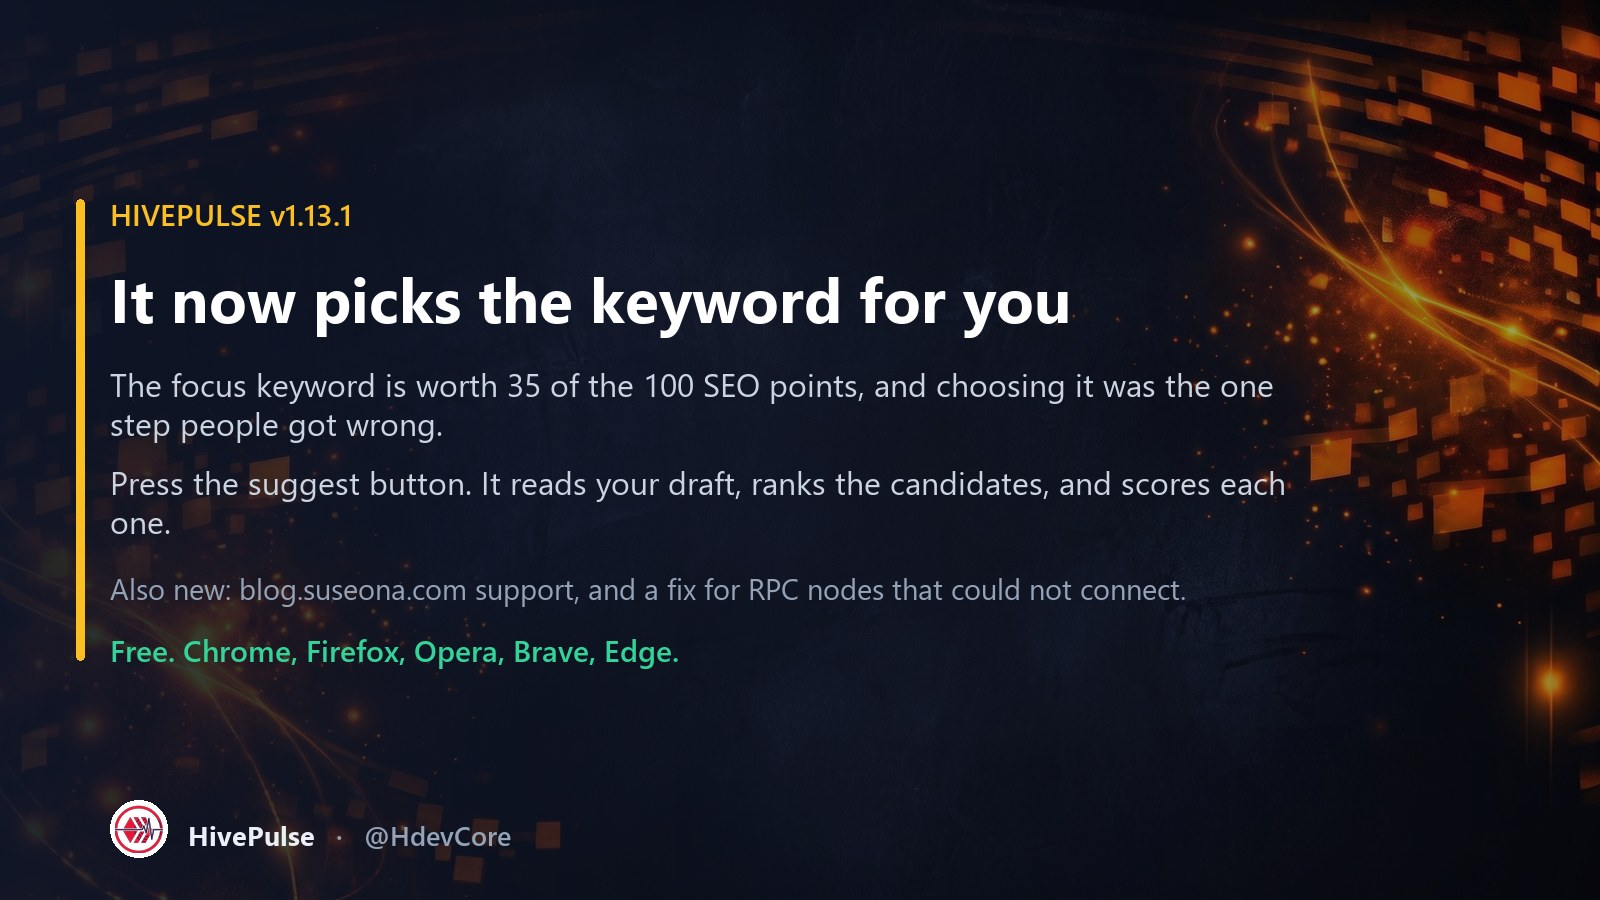
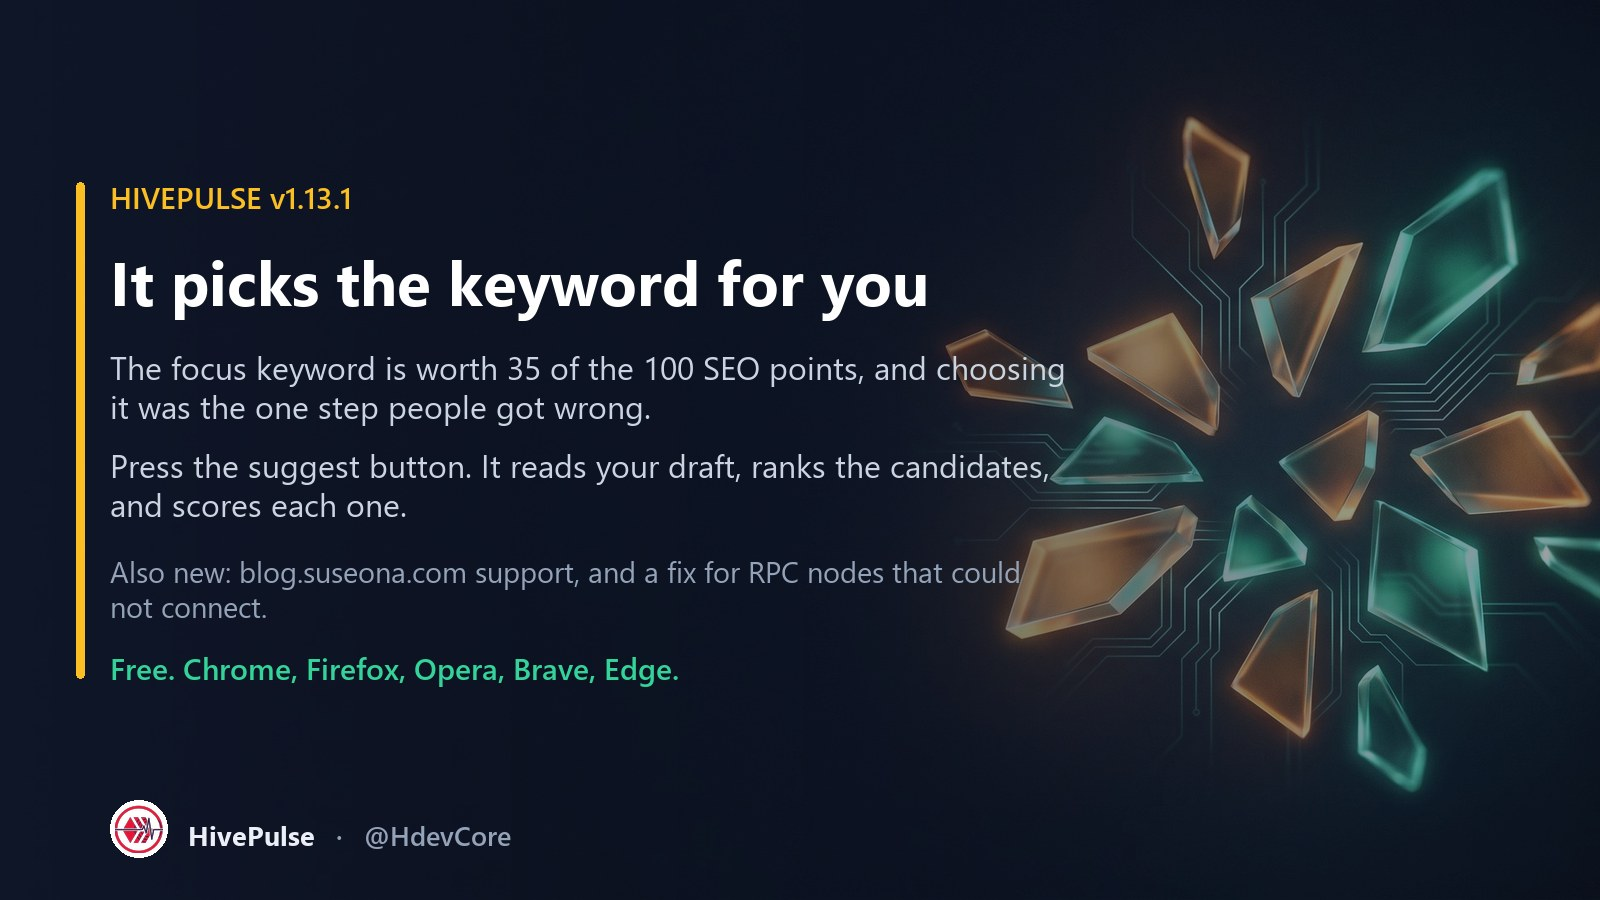
docs: rebuild week 5 social images on fresh Gemini plates
The plate every card has used since week 2 was generated on 5 August, so four
consecutive weeks of cards shared one orange swoosh. Three new plates, art-directed
to keep the left two thirds near-empty:

  plate-ascend   rising amber particles  -> referral card, tier chart
  plate-lines    prose-like light lines  -> audit card, correlation chart
  plate-shards   amber/cyan shard bloom  -> keyword card, final-day card

Nano Banana Pro at 2K, $0.134 each, $0.536 spent including one control image.

Text stays composed rather than model-rendered. gemini-text-test.jpg is that control
-- the audit card asked of the model as a finished poster. It spelled everything
correctly and set good type, but invented a card-within-a-card frame, could not place
the real HivePulse mark, and would need proof-reading and $0.134 on every regeneration.
The tier card is re-rendered with a live entry count several times a week, and the
correlation chart plots 28 real scores, so neither can be a model output. Plates are
reused, so regenerating any card is now free.

Charts pick up the same plates behind a hard darken and a slate wash, so data marks
stay the brightest thing on the canvas while the whole set reads as one system.

- make_social_cards.render() now honours an optional per-card max_w, defaulting to
  the previous 1230 so existing cards render unchanged. Week-5 cards narrow the
  column to keep body copy clear of the artwork.
- Plates downscaled 1920px wide, 9.7 MB -> 0.7 MB total.
[…]

diff --git a/scripts/make_week5_cards.py b/scripts/make_week5_cards.py
@@ -17,16 +17,22 @@ import sys
 
 sys.path.insert(0, os.path.dirname(os.path.abspath(__file__)))
 
-from make_social_cards import render, AMBER, EMERALD, ORANGE, RED, WHITE, MUTED, DIM  # noqa: E402
+import make_social_cards as base  # noqa: E402
+from make_social_cards import render, AMBER, EMERALD, ORANGE, WHITE, MUTED, DIM  # noqa: E402
+
+# Each card names its own Gemini-generated plate. All three were art-directed to keep
+# the left two thirds near-empty, so none of them are mirrored -- flipping would throw
+# the busy side under the text.
+PLATES = 'enhancements/images/social/plates'
 
 CARDS = [
     {   # Fri -- the friction remover. Ship news, but framed as "the hard part is gone".
         # Keep the wording neutral about store availability: submitted and rolling out
         # is not the same as live, and review times are not ours to promise.
-        'name': 'w5-keyword', 'accent': AMBER,
+        'name': 'w5-keyword', 'max_w': 960, 'accent': AMBER, 'plate': 'plate-shards',
         'blocks': [
             {'text': 'HIVEPULSE v1.13.1', 'size': 30, 'weight': 'semi', 'color': AMBER, 'gap': 26},
-            {'text': 'It now picks the keyword for you', 'size': 62, 'gap': 30},
+            {'text': 'It picks the keyword for you', 'size': 62, 'gap': 30},
             {'text': 'The focus keyword is worth 35 of the 100 SEO points, and choosing it '
                      'was the one step people got wrong.',
              'size': 32, 'weight': 'reg', 'color': MUTED, 'gap': 20},
@@ -41,7 +47,7 @@ CARDS = [
     },
     {   # Sat -- the most saveable artifact of the week. No product mentioned on purpose:
         # this has to be worth keeping to someone who will never install anything.
-        'name': 'w5-audit', 'accent': EMERALD, 'mirror': True,
+        'name': 'w5-audit', 'max_w': 1000, 'accent': EMERALD, 'plate': 'plate-lines',
         'blocks': [
             {'text': 'NO TOOL REQUIRED', 'size': 30, 'weight': 'semi', 'color': EMERALD, 'gap': 28},
             {'text': 'The 30-second audit', 'size': 62, 'gap': 34},
@@ -59,7 +65,7 @@ CARDS = [
     },
     {   # Sun -- the referral mechanic, stated as arithmetic. The point is that bringing
         # someone is not altruism: it pays twice, and the second payment is the tier.
-        'name': 'w5-referral', 'accent': AMBER,
+        'name': 'w5-referral', 'max_w': 960, 'accent': AMBER, 'plate': 'plate-ascend',
         'blocks': [
             {'text': 'WHY BRINGING A FRIEND PAYS YOU TWICE', 'size': 30, 'weight': 'semi',
              'color': AMBER, 'gap': 30},
@@ -77,7 +83,7 @@ CARDS = [
     },
     {   # Tue -- close. Deliberately plain: at this point nobody needs persuading, they
         # need the four steps and the deadline.
-        'name': 'w5-final', 'accent': ORANGE, 'mirror': True,
+        'name': 'w5-final', 'max_w': 1000, 'accent': ORANGE, 'plate': 'plate-shards',
         'blocks': [
             {'text': 'FINAL DAY', 'size': 32, 'weight': 'semi', 'color': ORANGE, 'gap': 26},
             {'text': 'Closes tonight, 23:59 UTC', 'size': 64, 'gap': 32},
@@ -97,6 +103,7 @@ CARDS = [
 
 if __name__ == '__main__':
     for c in CARDS:
+        base.PLATE = f'{PLATES}/{c["plate"]}.jpg'
         p, kb = render(c)
-        print(f'  {p}  {kb:.0f} KB')
+        print(f'  {p}  {kb:.0f} KB   on {c["plate"]}')
     print(f'\n{len(CARDS)} cards written.')

diff --git a/scripts/make_week5_charts.py b/scripts/make_week5_charts.py
@@ -20,7 +20,7 @@ rows published in the week-4 announcement instead. Every row is a real published
 the week-3 rows are best-per-author rather than every post.
 """
 
-from PIL import Image, ImageDraw, ImageFont
+from PIL import Image, ImageDraw, ImageFont, ImageEnhance
 import csv, os, argparse
 
 W, H = 1600, 900
@@ -53,6 +53,29 @@ def font(w, s):
     return _c[k]
 
 
+PLATES = 'enhancements/images/social/plates'
+
+
+def ground(plate):
+    """Chart background: a Gemini plate, cover-cropped and darkened hard.
+
+    The plate is texture, not subject. Data marks have to stay the brightest thing on
+    the canvas, so this darkens to roughly a fifth and lays a slate wash over the top --
+    enough to read as the same visual system as the text cards, not enough to compete
+    with a 6px dot. Falls back to flat slate if the plate is missing.
+    """
+    path = f'{PLATES}/{plate}.jpg'
+    if not os.path.exists(path):
+        return Image.new('RGB', (W, H), SURFACE)
+    im = Image.open(path).convert('RGB')
+    scale = max(W / im.width, H / im.height)
+    im = im.resize((round(im.width * scale), round(im.height * scale)), Image.LANCZOS)
+    left, top = (im.width - W) // 2, (im.height - H) // 2
+    im = im.crop((left, top, left + W, top + H))
+    im = ImageEnhance.Brightness(im).enhance(0.22)
+    return Image.blend(im, Image.new('RGB', (W, H), SURFACE), 0.55)
+
+
 # --------------------------------------------------------------- tier ladder
 
 TIERS = [
@@ -63,7 +86,7 @@ TIERS = [
 
 
 def tier_card(entries, out):
-    im = Image.new('RGB', (W, H), SURFACE)
+    im = ground('plate-ascend')
     d = ImageDraw.Draw(im)
 
     if entries < 10:
@@ -161,7 +184,7 @@ def correlation_chart(out):
     r = pearson([a for a, _ in rows], [b for _, b in rows])
     data = sorted(rows, key=lambda t: -(t[0] - t[1]))
 
-    im = Image.new('RGB', (W, H), SURFACE)
+    im = ground('plate-lines')
     d = ImageDraw.Draw(im)
 
     d.text((100, 66), 'The more posts we score, the less SEO predicts AI-quotability',

diff --git a/scripts/make_social_cards.py b/scripts/make_social_cards.py
@@ -91,7 +91,9 @@ def render(card):
     im = background(card.get('mirror', False))
     d = ImageDraw.Draw(im)
     x = 110
-    max_w = 1230
+    # Cards on a plate whose artwork reaches further left need a narrower column so
+    # body copy never runs under the busy side. Default matches the original layout.
+    max_w = card.get('max_w', 1230)
     accent = card.get('accent', AMBER)
 
     # measure total height so the block sits optically centred

diff --git a/enhancements/x-plan-week5.md b/enhancements/x-plan-week5.md
@@ -291,6 +291,26 @@ python scripts/make_week5_charts.py --entries N    # tier + correlation
 python scripts/make_week5_cards.py                 # the four text cards
 ```
 
+**Both are free to re-run.** The artwork underneath is Gemini-generated and already
+paid for — it lives in `social/plates/` and is reused, so re-rendering the tier card
+with a new entry count costs nothing. Only a new *plate* bills.
+
+| Plate | Generated | Used by |
+|---|---|---|
+| `plates/plate-ascend.jpg` | Nano Banana Pro, 2K, $0.134 | referral card, tier chart |
+| `plates/plate-lines.jpg` | Nano Banana Pro, 2K, $0.134 | audit card, correlation chart |
+| `plates/plate-shards.jpg` | Nano Banana Pro, 2K, $0.134 | keyword card, final-day card |
+| `plates/gemini-text-test.jpg` | Nano Banana Pro, 2K, $0.134 | not used — see below |
+
+**Why the text is composed rather than model-rendered.** `gemini-text-test.jpg` is a
+control: the same audit card asked of the model as a finished poster, text and all. It
+spelled every word correctly and the typography was good. It also invented a
+card-within-a-card frame nobody asked for, could not place the real HivePulse mark, and
+cost $0.134 for one attempt that would need a manual spell-check before every use. The
+tier card alone is re-rendered several times a week with a live number. Model-rendered
+plates plus composed type gets the visual quality without paying, or proof-reading,
+on every regeneration.
+
 | File | Used | Carries |
 |---|---|---|
 | `social/w5-tier.jpg` | **Wed, Mon** | The ladder, where the count sits on it, and both multipliers. Re-render for the live number before every use. |
